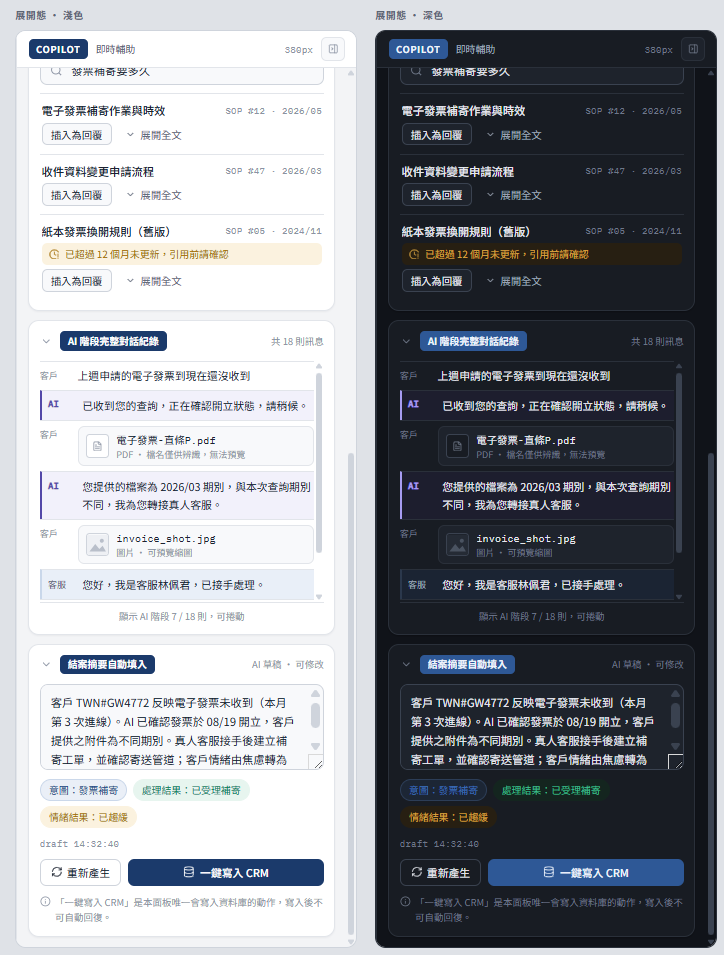
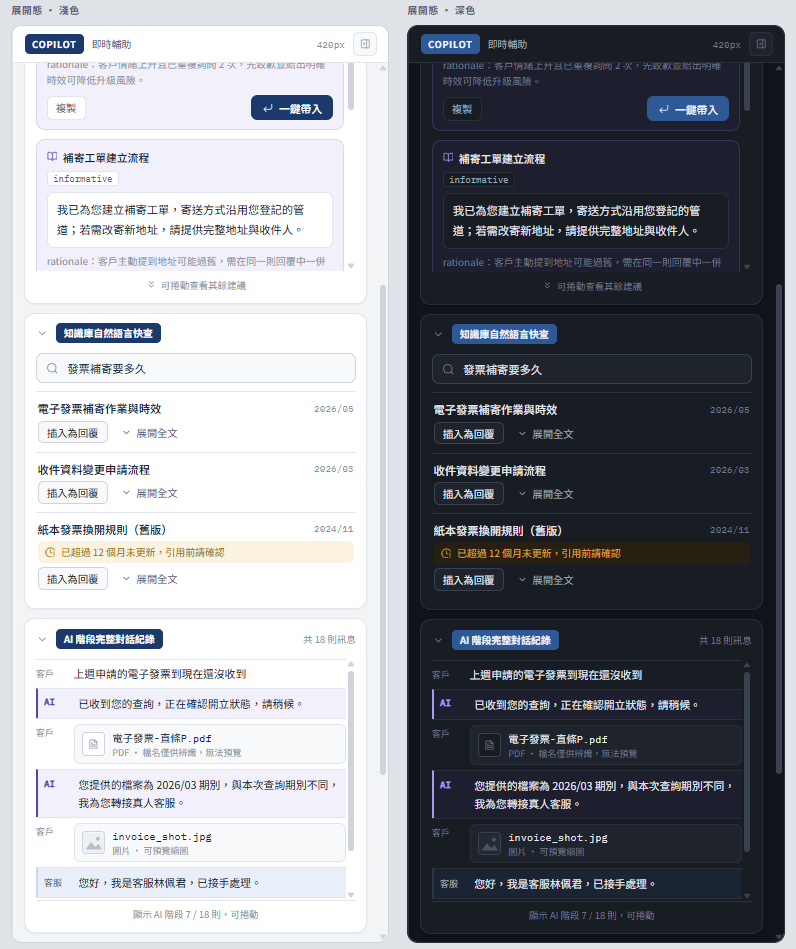
docs: 主工作區設計稿擴充為 12 個狀態，並把索引與落差寫進正典
新增 10 張狀態變體（未接手／接手下拉／左欄收合／右欄收合／撞單攔截／
結案五態），並重新匯出 lightTheme、darkTheme 與 2a 的三張。

正典側做了三件事：

1. DESIGN_TOKENS 新增「1c 的狀態變體」索引表，12 張逐張標出「狀態」與
   「實作時要看的重點」。之前 1c 只有兩張截圖，M2 驗收清單也照此描述，
   不訂正的話核對範圍會漏掉 10 張。

2. 關閉「結案態是否有獨立寬度」這個從 2026-08-25 掛到現在的未定案問題。
   2a 重新匯出後四態一律 420px，與 1c 一致——先前的 380/420 差異來自畫布
   當時尚未統一，不是設計區分。ARCHITECTURE §14.1 的 380px 一併訂正。
   ⚠ 420 是從截圖上畫布自己標注的欄寬文字讀來的，證據等級低於本節其餘
   經 dc-import 逐字擷取的內容，已在該處標明。

3. 補上一條 provenance 警告：本文件的文字規格仍是 2026-08-25 擷取的，
   截圖已是 2026-08-28 的——兩者不再是同一時間點的快照。這正是 CLAUDE.md
   列為第一級警告的那種情形，不寫明的話下一個人會以為兩者同步。

ARCHITECTURE 另記錄兩項因 003 而改變的既有敘述：右欄的可見性不再是「永遠
都在」（未 JOIN 即整欄不呈現），以及區塊⑤「只在結案時使用」升級為硬性要求
（常駐會讓它與結案按鈕的關係曖昧，且得在某個時機產生內容＝每個對話多跑一次
AI 呼叫，而絕大多數對話不會在那一刻結案）。

Changed region(s): [[0.0, 0.0, 1.0, 1.0]]

diff --git a/docs/DESIGN_TOKENS.md b/docs/DESIGN_TOKENS.md
@@ -1,6 +1,11 @@
 # 設計規格：色票／字級／元件結構／文案
 
 > 來源：Claude Design 畫布（`AgentCopilot.dc.html`），2026-08-25 由 artifact 內容逐字擷取。
+>
+> ⚠ **本文件的文字規格與 `docs/wireframe/` 的截圖，現在不是同一個時間點的快照**：
+> 文字規格仍是 2026-08-25 擷取的，截圖已於 **2026-08-28** 大幅更新（1c 擴充為 12 張狀態變體、
+> 2a 三張重新匯出、面板寬度統一為 420px）。兩者衝突時**以截圖為新**，但截圖的可信度較低
+> （見下方各節的可信度標註）—— 正確做法是依文末附錄流程重新擷取一次，而不是二選一。
 > 畫布連結：https://claude.ai/code/artifact/f4090229-a1b1-40ee-a6e6-c32a25e7e5bf
 > （會隨畫布後續編輯而變動內容 —— 本文件與 `docs/wireframe/` 截圖是當時內容的凍結快照，實作請以此為準；
 > 若畫布已更新且需要重新擷取最新內容，見文末附錄）
@@ -8,6 +13,9 @@
 > 視覺參考見 `docs/wireframe/`（每個畫面各有淺色／深色截圖）；本文件是可查詢、可 diff 的精確規格 ——
 > 色票 hex 值、px、逐字文案不建議從截圖肉眼還原，以本文件為準。
 > 目前涵蓋 **1a（登入）／1b（選擇組織）**。1c／1d（主工作區）截圖已備妥，文字規格待後續擴充。
+> ⚠ **2026-08-28：1c 的截圖已擴充為 12 張**（基準態淺／深色 ＋ 10 個狀態變體：未接手、兩欄收合、
+> 撞單攔截、結案五態…），索引與各自的判讀重點見下方「1c 的狀態變體」。文字規格仍待擴充，
+> 因此這 12 張的可信度規則不變 —— **視覺參考可以，逐字文案與色值不建議肉眼還原**。
 > **2a（Copilot 面板）截圖已備妥，但文字內容多數只能以截圖肉眼判讀 —— 與本文件一貫的「不建議肉眼還原」
 > 原則相反，是不得已的例外，原因與範圍見 §7.0。**
 >
@@ -23,9 +31,33 @@
 |---|---|---|
 | 1a | 登入頁 | `docs/wireframe/01-login_lightTheme.png` / `_darkTheme.png` |
 | 1b | 選擇組織 | `docs/wireframe/02-organization_lightTheme.png` / `_darkTheme.png` |
-| 1c | 主工作區 | `docs/wireframe/03-workspace_lightTheme.png` / `_darkTheme.png` |
+| 1c | 主工作區 | `docs/wireframe/03-workspace_lightTheme.png` / `_darkTheme.png`，**另有 10 個狀態變體，見下表** |
 | 1d | 主工作區 — 載入中／空狀態 | `docs/wireframe/04-workspace-empty_lightTheme.png` / `_darkTheme.png` |
 | 2a | Copilot 面板（取代 1c 右欄佔位） | `docs/wireframe/05-copilot-panel_4status_01.png`（四狀態總覽：展開×淺色／展開×深色／載入中／準備結案收合）、`docs/wireframe/05-copilot-panel_2status_02.png`（展開×淺色／深色，補齊第一張截圖被裁掉的下半部） |
+
+### 1c 的狀態變體（2026-08-28 新增）
+
+> 這些是**同一個 artboard 的不同狀態**，不是新的 artboard。全部為淺色主題（深色僅 `_darkTheme`
+> 一張）。⚠ 與上表同樣的可信度規則：**截圖只供視覺參考，逐字文案與色值不建議肉眼還原**。
+>
+> 規格出處：接手／離開／結案三個出口與 Copilot 面板可見性的行為定義在
+> `specs/003-analysis-trigger-policy/spec.md`（FR-016～FR-023 與「Session 2026-08-28」兩節）；
+> **結案流程本身屬 M3**，003 只交付出口的存在與文案。
+
+| 截圖 | 狀態 | 實作時要看的重點 |
+|---|---|---|
+| `03-workspace_lightTheme.png` | 已接手（基準態） | 標題列「離開對話」（次要）＋「結案」（primary）＋輔助說明；服務模式分段控制項可切換；Copilot 面板展開 |
+| `03-workspace_darkTheme.png` | 已接手 × 深色 | ⚠ 與 lightTheme 的唯一差異：presence 列顯示「林佩君 ⟨正在結案⟩ 你仍可回覆或自行結案」（lightTheme 是「無人／未知」）。取深色色票時這是唯一要留意的多出來的元件——2026-08-28 已移除先前一併疊上的「撞單攔截」狀態 |
+| `03-workspace_assignment01.png` | **未接手** | Copilot 面板**整欄不存在**（非變灰／非骨架），中欄延伸至右緣；標題列只有「接手對話」＋下拉；Composer 唯讀提示。003 FR-016 的視覺依據 |
+| `03-workspace_assignment02.png` | 未接手 × 下拉展開 | 兩個選項寫出**後果**而非模式名稱：「接手並停用 AI 自動回覆」／「接手但保留 AI 自動回覆」 |
+| `03-workspace_toggleLeft.png` | 左側對話清單收合 | 收合為窄直條，保留展開鈕與未讀數徽章 |
+| `03-workspace_toggleCopilot.png` | Copilot 面板收合 | 收合為窄直條，保留 COPILOT 直排標籤與展開鈕。⚠ 收合鈕**只在已接手時存在**（003 FR-017） |
+| `03-workspace_orderConflict.png` | 撞單攔截 | 憲法 3.3① 的封閉集合之一。Composer 轉為「已攔截」，三個處置選項＋「草稿已保留」 |
+| `03-workspace_close.png` | **結案中**（M3） | Composer **不鎖**＋上方常駐橫幅說明快照規則；標題列「取消結案」＋「結案中…」；服務模式轉唯讀；左側清單顯示「結案未完成」；面板轉「準備結案」態、其餘區塊收合 |
+| `03-workspace_close_abstractExpired.png` | 結案中 — 摘要過期（M3） | 摘要區塊出現「對話有新內容，建議重新產生」；**按鈕主從對調** —— 「重新產生」轉強調樣式，「一鍵寫入 CRM」降為次要並改文案為「仍要寫入 CRM」 |
+| `03-workspace_close_writing.png` | 結案中 — 寫入中（M3） | 「寫入中…」spinner；「重新產生」與**「取消結案」同時 disabled**（請求已送出，此時不可回頭） |
+| `03-workspace_close_colleaguePerspective.png` | 同事視角 — 有人正在結案（M3） | presence 列顯示「林佩君 ⟨正在結案⟩ 你仍可回覆或自行結案」。⚠ **不阻擋**同事回覆或自行結案，純提示。⚠ 此圖右上角的登入者仍是「林佩君」，與 presence 的人同名 —— 是 mock 的瑕疵（presence 會排除自己），判讀時請當作兩個不同的人 |
+| `03-workspace_close_logoutFailed.png` | 摘要已寫入但 LEAVE 失敗（M3） | 頂端橫幅「結案摘要已寫入，但離開對話失敗」＋「重試離開」；面板恢復為「即時輔助」正常態；左側「結案未完成」標記已消失（結案本身已完成） |
 
 ---
 
@@ -239,8 +271,24 @@ box-shadow: var(--shadow)
 
 ### 7.1 版面／寬度（逐字擷取，可信）
 
-- 展開態／載入中兩種 variant 的示範容器寬度：**380px**，可拖曳調整範圍 **320–520px**
-- 準備結案（`variant="closing"`）的示範容器寬度：**420px** —— 目前不確定這是「結案狀態有獨立固定寬度」還是「畫布作者示範時隨手選的展示寬度、實際仍受同一組 320–520px 拖曳範圍約束」，未定案，實作時建議先當作同一個可拖曳欄寬處理，除非另有規格說明
+- **四種 variant（展開／載入中／準備結案／收合）的示範容器寬度一律 420px**，可拖曳調整範圍 **320–520px**
+
+> ### ✅ 2026-08-28：「結案態是否有獨立寬度」的未定案問題已關閉
+>
+> **原問題**：2026-08-25 擷取時，展開態／載入中標示 380px 而準備結案標示 420px，
+> 無法判斷這是「結案狀態有獨立固定寬度」還是「畫布作者示範時隨手選的展示寬度」。
+>
+> **結論：沒有獨立寬度，420px 是所有狀態共用的展開寬度。** 2026-08-28 重新匯出的
+> `05-copilot-panel_4status_01.png` 四態全部標示 420px，`05-copilot-panel_2status_02.png`
+> 與 1c 的 12 張截圖亦然。先前的 380/420 差異來自畫布當時尚未統一，不是設計區分。
+>
+> ⚠ **本行的證據等級低於本節其餘內容**：420 這個數字是從截圖上畫布自己標注的欄寬文字讀來的
+> （字夠大、可信），**不是**像原本的 380 那樣經 `dc-import` 逐字擷取。若日後要據此做精確版面計算，
+> 建議依文末附錄流程重新擷取一次 2a 的 wrapper HTML 確認。
+>
+> ⚠ **實作端仍是 380**：`app/pages/c/[conversationId].vue` 的 `copilotWidth` 預設值為 `ref(380)`。
+> 拖曳範圍 320–520 兩者皆相容，因此這個落差**只影響「首次開啟時的預設寬度」**，不影響任何行為。
+> 已排入 `specs/003-analysis-trigger-policy` T031 一併修正。
 - **五個區塊皆可獨立折疊**（wrapper 原文：「五區塊皆可折疊」）
 - 支援淺色／深色主題
 - 支援「載入骨架」與「準備結案收合」兩種特殊狀態

diff --git a/docs/ARCHITECTURE.md b/docs/ARCHITECTURE.md
@@ -1387,11 +1387,28 @@ boards.linkItems()                                      # 關聯至 Contact
 
 > 右欄的五個區塊以 §14.1.1 為準，本圖與該節必須一致。**「AI 轉接摘要」不在右欄**——依 demo 對照它屬於左欄（見 `PLATFORM_CAPABILITY.md` §2）。
 >
-> 右欄現已有正式設計稿（畫布 artboard **2a**，逐字規格見 `DESIGN_TOKENS.md` §7）：展開態寬度 380px（可拖曳 320–520px）、五區塊皆可折疊、支援載入骨架與「準備結案」收合態。
+> 右欄現已有正式設計稿（畫布 artboard **2a**，逐字規格見 `DESIGN_TOKENS.md` §7）：展開態寬度 **420px**（可拖曳 320–520px）、五區塊皆可折疊、支援載入骨架與「準備結案」收合態。
+>
+> ⚠ **2026-08-28 訂正**：本行原寫 380px。畫布已統一為 420px（所有狀態共用，非結案專屬），
+> `DESIGN_TOKENS.md` §7.1 原本「結案態是否有獨立寬度」的未定案問題隨之關閉。
+> 實作端 `copilotWidth` 預設值仍是 380，已排入 `specs/003-analysis-trigger-policy` T031 修正。
+
+> ⚠ **2026-08-28：右欄的可見性不再是「永遠都在」。**
+> 依 `specs/003-analysis-trigger-policy`，**客服未 JOIN 該對話時右欄整欄不呈現**（連收合鈕一起消失），
+> 中欄延伸至可用寬度；JOIN 時自動展開並提供收合鈕，收合狀態以「每位客服、每個對話」為粒度
+> 存 `localStorage`。伺服器端亦不把三個分析事件推給未 JOIN 的連線。
+> 規則見該規格 FR-016～FR-017b，視覺見 `docs/wireframe/03-workspace_assignment01.png`
+> （未接手）與 `03-workspace_toggleCopilot.png`（收合態）。
 
 ### 14.1.1 右欄的區塊與捲動
 
 依 `demo_agentCopilot02.png`（後由畫布 artboard 2a 確認，見 `DESIGN_TOKENS.md` §7.2），右欄自上而下共五個區塊：① 客戶情緒提示（處理中最常看）② AI 語意即時建議（處理中最常用）③ 知識庫自然語言快查（隨時可能用）④ AI 階段完整對話紀錄（可折疊，偶爾回顧）⑤ 結案摘要自動填入（只在結案時使用）。
+
+> ⚠ **2026-08-28：⑤ 的「只在結案時使用」是硬性的 —— 未進入結案流程時 MUST 完全不呈現該區塊。**
+> 兩個理由：① 常駐會讓「這個區塊」與「結案按鈕」的關係曖昧不明；② 區塊若常駐就得在某個時機
+> 產生內容，等於每個對話都多跑一次 AI 呼叫，而絕大多數對話不會在那一刻結案。
+> 結案流程本身屬 M3，行為定案見 `specs/003-analysis-trigger-policy` 的「Session 2026-08-28 補充」
+> 與 `tasks.md` 附錄；視覺見 `docs/wireframe/03-workspace_close*.png` 四張。
 
 > ✅ **2026-08-26 已由設計稿定案，以下「問題／建議做法」段落已解決，保留是為了記錄決策脈絡**：
 > 2a 採用的是「區塊可折疊」+「階段感知」的組合，不是兩者擇一——五區塊平時各自可折疊；一旦偵測到「準備結案」，
@@ -1591,7 +1608,9 @@ Docker 多階段建置 → `node .output/server/index.mjs`。iMBrace 提供 K8s 
 - [ ] `confidence` 無真實分數來源時顯示為留空，不得顯示模型自評的替代數字（§11.6②）
 - [ ] 知識庫自然語言快查能回傳含標題與更新日期（或「更新日期未知」）的結果列表，不顯示獨立編號；空白查詢不觸發呼叫；查無結果與「尚未輸入查詢」視覺可區分（2026-08-27 新增，隨知識庫快查併入本里程碑一併提出，見 `specs/002-suggestion-knowledge-search`）
 - [ ] Copilot 面板五大區塊（摘要卡 `SummaryCard.vue`、情緒走勢 `SentimentGauge.vue`、建議卡、知識庫快查、對話紀錄／結案摘要——**後兩者**尚未實作，待建置時一併核對；2026-08-27 訂正：知識庫快查已隨本里程碑實作，見上一項）之圖示、色票、文案措辭、`error`／`retrying` 等狀態呈現，已對照 Claude Design 畫布 artboard 2a 原始檔 `CopilotPanel.dc.html`（見 `docs/DESIGN_TOKENS.md` §7）逐一核實；有落差者已訂正，或已記錄不採用的理由（2026-08-27 新增：`specs/001-sentiment-panel` FR-003 明文排除視覺樣式於原驗收範圍外，且 `tasks.md` T030 記錄此核對動作從未執行，此前為已知但無人排入排程的缺口）
-- [ ] 左側對話列表（`Sidebar.vue`）與中間對話訊息欄（`MessageList.vue`、`MessageBubble.vue`、`Composer.vue`、`PresenceBar.vue`、`ModeSelect.vue`）已對照 Claude Design 畫布 artboard 1c（主工作區）核實（2026-08-27 新增，隨上一項一併提出）；⚠ `docs/DESIGN_TOKENS.md` 目前 1c 只有截圖（`docs/wireframe/03-workspace_lightTheme.png`／`_darkTheme.png`），尚無逐字文字規格（見該檔第 10 行），核對前須先比對截圖，或依該檔附錄流程向畫布擁有者取得 1c 逐字規格再核對，不得憑既有 token 臨場判斷後就視為已核實
+- [ ] 左側對話列表（`Sidebar.vue`）與中間對話訊息欄（`MessageList.vue`、`MessageBubble.vue`、`Composer.vue`、`PresenceBar.vue`、`ModeSelect.vue`）已對照 Claude Design 畫布 artboard 1c（主工作區）核實（2026-08-27 新增，隨上一項一併提出）；⚠ `docs/DESIGN_TOKENS.md` 目前 1c 只有截圖，尚無逐字文字規格（見該檔第 10 行），核對前須先比對截圖，或依該檔附錄流程向畫布擁有者取得 1c 逐字規格再核對，不得憑既有 token 臨場判斷後就視為已核實。**2026-08-28 訂正**：1c 已不只兩張——另有 10 個狀態變體（未接手／兩欄收合／撞單／結案五態等），索引與各自的判讀重點見 `DESIGN_TOKENS.md`「1c 的狀態變體」一節，核對範圍 MUST 涵蓋全部而非只有 `_lightTheme`／`_darkTheme` 兩張
+- [ ] 中欄標題列的出口按鈕已改為狀態驅動的兩態並對照 `docs/wireframe/03-workspace_assignment01.png`／`_assignment02.png`／`_lightTheme.png` 核實：未接手→「接手對話」＋下拉（兩選項寫出後果而非模式名稱）；已接手→「離開對話」（次要）＋「結案」（primary）＋輔助說明。⚠ 現行實作仍是單一的「加入對話／離開」toggle，落差見 `specs/003-analysis-trigger-policy` T032（2026-08-28 新增）
+- [ ] Copilot 面板的可見性已依 `specs/003-analysis-trigger-policy` FR-016～FR-017b 實作：未 JOIN 時整欄不呈現（非變灰／非骨架）、JOIN 時自動展開並可收合、收合狀態 per 客服 per 對話存 `localStorage`；且伺服器端不把三個分析事件推給未 JOIN 的連線（FR-016a）（2026-08-28 新增）
 
 **外部依賴**：無
 
